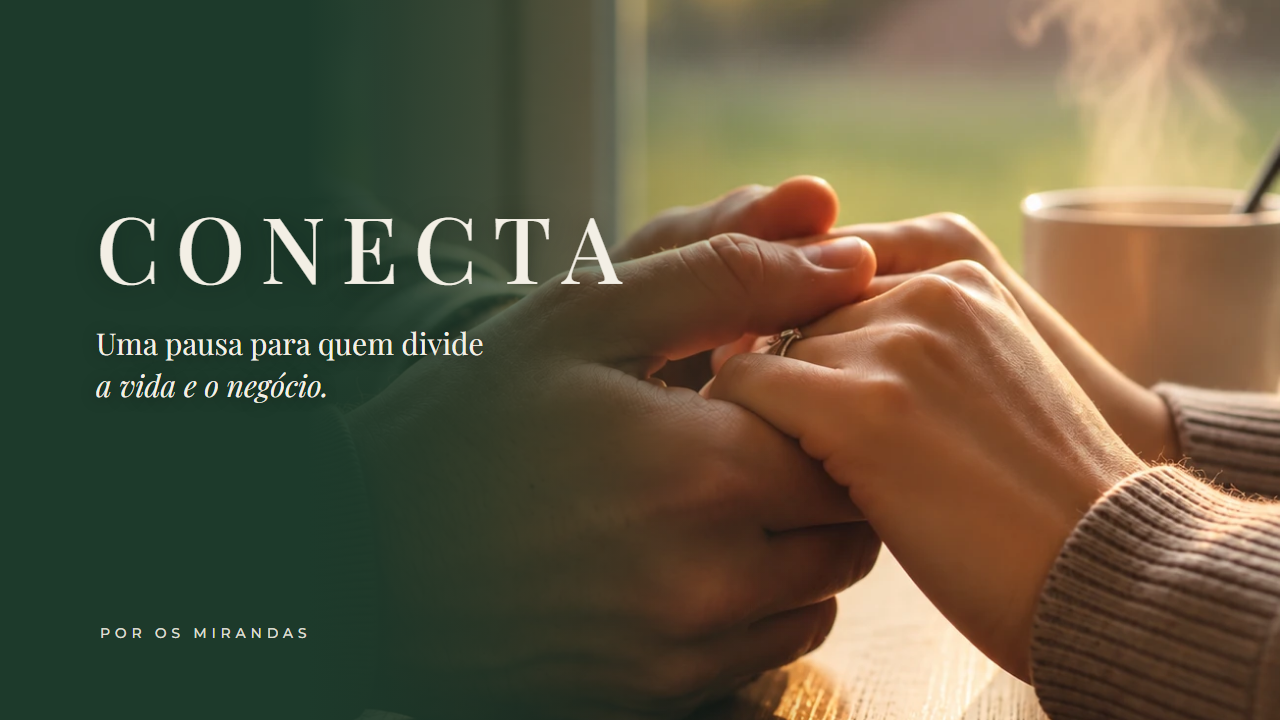
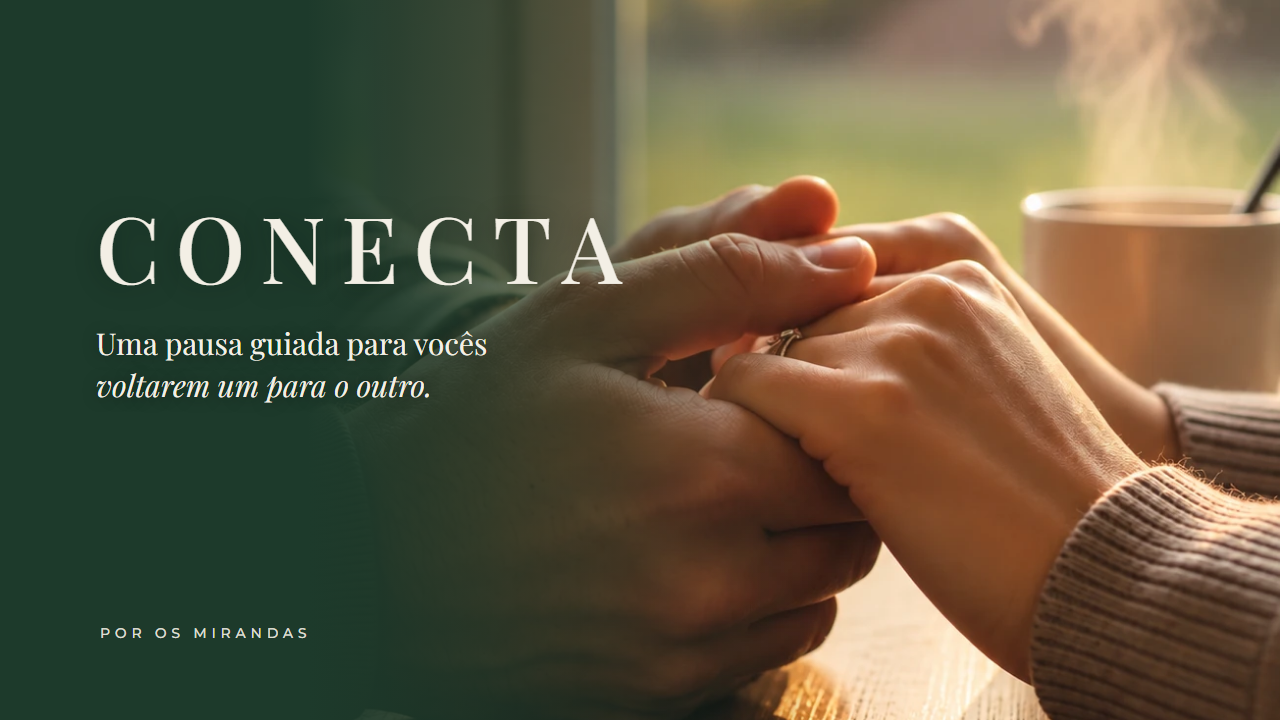
Novo posicionamento do CONECTA: pausa guiada para casais voltarem um para o outro
Página de vendas, página da bio e capas do produto deixam de falar só com
casais que empreendem juntos. Experiência 03 vira "O que ainda existe aqui",
acordo final com proteger, parar, voltar e o sinal de volta.

Changed region(s): [[0.0625, 0.4583, 0.375, 0.5806]]

diff --git a/conecta/venda/index.html b/conecta/venda/index.html
@@ -3,7 +3,7 @@
 <meta charset="utf-8">
 <meta name="viewport" content="width=device-width,initial-scale=1,viewport-fit=cover">
 <title>CONECTA · Os Mirandas</title>
-<meta name="description" content="CONECTA: uma experiência para casais que empreendem juntos saírem por algumas horas do modo sócios e voltarem a prestar atenção um no outro.">
+<meta name="description" content="CONECTA: uma pausa guiada para casais que se amam, mas perceberam que a vida começou a ocupar espaço demais entre os dois. Algumas horas para voltarem um para o outro.">
 <!-- Página de venda do CONECTA · v3 · estrutura inspirada na referência Black Boutique (Os Formagios), vestida com a identidade Os Mirandas -->
 <link rel="preconnect" href="https://fonts.googleapis.com">
 <link rel="preconnect" href="https://fonts.gstatic.com" crossorigin>
@@ -216,10 +216,10 @@ a:focus-visible,.btn:focus-visible{outline:2px solid var(--salvia);outline-offse
     <div class="hero" id="inicio">
       <div>
         <p class="rot">CONECTA · o livro-experiência</p>
-        <h1>Uma pausa para quem divide a vida e o <em>negócio.</em></h1>
-        <h2>Voltem a olhar para o “nós”.</h2>
-        <p class="sub">Uma experiência guiada para casais que empreendem juntos saírem por algumas horas do modo sócios e voltarem a prestar atenção um no outro.</p>
-        <p class="sub ritual">Peguem papel e caneta. Guardem os celulares. Sentem perto.</p>
+        <h1>Uma pausa guiada para vocês voltarem <em>um para o outro.</em></h1>
+        <h2>Amar também é saber voltar.</h2>
+        <p class="sub">Para casais que continuam se amando, mas perceberam que a vida começou a exigir tanto que sobrou pouco espaço para cuidar de vocês.</p>
+        <p class="sub ritual">Papel, duas canetas, algo para beber. Celulares longe.</p>
         <div class="compra">
           <a class="btn" href="https://pay.hotmart.com/S107878528P">Quero viver o CONECTA <span>↘</span></a>
           <p class="preco"><b>R$ 37</b><span>Acesso imediato</span></p>
@@ -232,9 +232,9 @@ a:focus-visible,.btn:focus-visible{outline:2px solid var(--salvia);outline-offse
       </figure>
     </div>
     <div class="rodape-hero">
-      <span>Lembrar → Perceber → Escolher</span>
+      <span>Lembrar → Perceber → Reconhecer → Ouvir → Escolher</span>
       <a href="#caminho">Conheça o caminho ↓</a>
-      <span>17 anos casados e sócios</span>
+      <span>17 anos de casamento</span>
     </div>
   </div>
 </header>
@@ -244,12 +244,12 @@ a:focus-visible,.btn:focus-visible{outline:2px solid var(--salvia);outline-offse
   <div class="rv">
     <p class="rot">O que vocês vão viver</p>
     <h2>Cinco experiências e <em>um acordo.</em></h2>
-    <p class="tese">Vocês podem estar construindo tanto juntos que, sem perceber, começaram a conversar mais sobre aquilo que construíram do que sobre quem está construindo.</p>
+    <p class="tese">Trabalho, filhos, casa, dinheiro, preocupações. Há fases em que tudo parece precisar de vocês ao mesmo tempo. O perigo é passar tanto tempo cuidando da vida que, sem perceber, vocês deixam de cuidar de quem está vivendo essa vida ao lado.</p>
   </div>
   <ul class="abas">
     <li><a href="#e1"><span><small>01</small>O Museu do Nós</span><span>↘</span></a></li>
     <li><a href="#e2"><span><small>02</small>Onde foi parar a gente?</span><span>↘</span></a></li>
-    <li><a href="#e3"><span><small>03</small>Sócio ou cônjuge?</span><span>↘</span></a></li>
+    <li><a href="#e3"><span><small>03</small>O que ainda existe aqui</span><span>↘</span></a></li>
     <li><a href="#e4"><span><small>04</small>O que eu queria…</span><span>↘</span></a></li>
     <li><a href="#e5"><span><small>05</small>A vida que construímos</span><span>↘</span></a></li>
   </ul>
@@ -258,7 +258,7 @@ a:focus-visible,.btn:focus-visible{outline:2px solid var(--salvia);outline-offse
     <figure class="foto" data-depth><img src="img/vinil.jpg" alt="Disco de vinil no toca-discos, perto de uma janela" loading="lazy"><b>Lembrar.</b></figure>
     <div class="rv">
       <p class="num">01 / O Museu do Nós</p>
-      <h3>Acima de tudo que vocês administram, existe <em>uma história.</em></h3>
+      <h3>Antes de tudo que existe hoje, existe <em>uma história.</em></h3>
       <p>A música que lembra o outro, o lugar que querem visitar de novo, a piada que só vocês entendem. Antes de qualquer tensão, memória e afeto.</p>
       <a class="seta" href="#oferta">Quero viver isso <span>↗</span></a>
     </div>
@@ -269,23 +269,23 @@ a:focus-visible,.btn:focus-visible{outline:2px solid var(--salvia);outline-offse
     <div class="rv">
       <p class="num">02 / Onde foi parar a gente?</p>
       <h3>Às vezes não existe crise. Existe uma vida que ficou <em>cheia demais.</em></h3>
-      <p>A última semana de verdade, sem procurar culpados. Em que momentos alguém perceberia que vocês são marido e mulher, e não só dois sócios administrando uma vida?</p>
+      <p>A última semana de verdade, sem procurar culpados. Em que momentos alguém perceberia que existe um casal ali, e não apenas duas pessoas cuidando da vida?</p>
       <a class="seta" href="#oferta">Quero viver isso <span>↗</span></a>
     </div>
   </div>
 
   <div class="linha-exp" id="e3">
-    <figure class="foto" data-depth><img src="img/escritorio.jpg" alt="Mesa de trabalho com notebook, caderno aberto e caneta" loading="lazy"><b>Diferenciar.</b></figure>
+    <figure class="foto" data-depth><img src="img/olhar.jpg" alt="Mãos de um homem e de uma mulher escrevendo em folhas sobre a mesa, com café ao lado" loading="lazy"><b>Reconhecer.</b></figure>
     <div class="rv">
-      <p class="num">03 / Sócio ou cônjuge?</p>
-      <h3>A mesma pessoa, <em>dois papéis.</em></h3>
-      <p>Admirar o parceiro de vida e o parceiro de negócio. Conversar sobre o dinheiro da casa e da empresa. Combinar quem decide o quê, sem precisar decidir tudo juntos.</p>
+      <p class="num">03 / O que ainda existe aqui</p>
+      <h3>A rotina acostuma os olhos. <em>Olhem de novo.</em></h3>
+      <p>O que vocês admiram um no outro hoje, na pessoa que o outro se tornou. O que cada um anda carregando nesta fase sem ser reconhecido. E o que vocês querem que o outro não esqueça.</p>
       <a class="seta" href="#oferta">Quero viver isso <span>↗</span></a>
     </div>
   </div>
 
   <div class="linha-exp inv" id="e4">
-    <figure class="foto" data-depth><img src="img/sala.jpg" alt="Duas canecas sobre a mesa de centro de uma sala iluminada" loading="lazy"><b>Falar e escutar.</b></figure>
+    <figure class="foto" data-depth><img src="img/sala.jpg" alt="Duas canecas sobre a mesa de centro de uma sala iluminada" loading="lazy"><b>Ouvir.</b></figure>
     <div class="rv">
       <p class="num">04 / O que eu queria que você soubesse</p>
       <h3>Algumas coisas só nunca encontraram <em>uma boa hora.</em></h3>
@@ -295,11 +295,11 @@ a:focus-visible,.btn:focus-visible{outline:2px solid var(--salvia);outline-offse
   </div>
 
   <div class="linha-exp" id="e5">
-    <figure class="foto" data-depth><img src="img/estrada.jpg" alt="Estrada vazia seguindo até o horizonte numa manhã enevoada" loading="lazy"><b>Sonhar.</b></figure>
+    <figure class="foto" data-depth><img src="img/estrada.jpg" alt="Estrada vazia seguindo até o horizonte numa manhã enevoada" loading="lazy"><b>Escolher.</b></figure>
     <div class="rv">
       <p class="num">05 / A vida que estamos construindo</p>
-      <h3>Crescer importa. Mas também importa saber <em>para que.</em></h3>
-      <p>O que significa prosperidade para vocês. O que a agenda revela ser o tesouro do casal. E, no fim, um acordo: o que vão proteger, parar e voltar a fazer.</p>
+      <h3>A vida de vocês não começa quando esta fase passar. <em>Ela já está acontecendo.</em></h3>
+      <p>Que casamento vocês querem continuar vivendo dentro da vida que estão construindo, e como atravessar esta fase sem desaparecer um para o outro. No fim, um acordo: proteger, parar, voltar. E o sinal de volta de vocês.</p>
       <a class="seta" href="#oferta">Quero viver isso <span>↗</span></a>
     </div>
   </div>
@@ -315,13 +315,14 @@ a:focus-visible,.btn:focus-visible{outline:2px solid var(--salvia);outline-offse
     <p class="num">O livro-experiência</p>
     <h2>CONECTA</h2>
     <h3>Uma experiência para dois.</h3>
-    <p class="apoio">Papel, caneta e algumas conversas que talvez a rotina esteja adiando.</p>
+    <p class="apoio">Papel, caneta e algumas conversas que a rotina costuma adiar.</p>
     <ul class="inclui">
       <li>Cinco experiências guiadas</li>
-      <li>Um acordo final do casal</li>
-      <li>Uma fronteira para proteger o casamento da empresa</li>
+      <li>Espaço para escrever em cada exercício</li>
+      <li>Um acordo: proteger, parar, voltar</li>
+      <li>O sinal de volta de vocês, para guardar</li>
       <li>Orientações para quando uma conversa esquentar</li>
-      <li>Uma carta de Leandro e Fernanda</li>
+      <li>Duas orações e uma carta de Leandro e Fernanda</li>
     </ul>
     <p class="formato">Vocês recebem o CONECTA em formato digital, com acesso imediato, para usar na tela ou imprimir.</p>
     <div class="compra">
@@ -341,11 +342,11 @@ a:focus-visible,.btn:focus-visible{outline:2px solid var(--salvia);outline-offse
   </div>
   <div class="folha" data-depth>
     <p class="num"><span>O combinado</span><span>CONECTA</span></p>
-    <blockquote>Hoje não estamos aqui para descobrir quem está certo. Estamos aqui para prestar atenção um no outro.</blockquote>
+    <blockquote>Não estamos aqui para vencer uma discussão. Primeiro, escutem.</blockquote>
     <ol>
       <li>Cada um escreve sozinho, sem mostrar.</li>
       <li>O CONECTA avisa a hora de revelar.</li>
-      <li>Se a conversa engatar, fiquem nela. Dá para parar e continuar outro dia.</li>
+      <li>Se uma pergunta virar uma conversa de quarenta minutos, fiquem nela. Dá para parar e continuar outro dia.</li>
     </ol>
   </div>
 </div></section>
@@ -358,8 +359,9 @@ a:focus-visible,.btn:focus-visible{outline:2px solid var(--salvia);outline-offse
   <dl>
     <div><dt>É um curso?</dt><dd>Não. O CONECTA não tem aulas, vídeos ou conteúdo para estudar. É uma experiência guiada que vocês recebem em formato digital e percorrem juntos, com papel e caneta.</dd></div>
     <div><dt>Quanto tempo leva?</dt><dd>Não existe tempo certo. Algumas perguntas levam poucos minutos, outras abrem conversas longas. Dá para fazer tudo de uma vez ou continuar outro dia.</dd></div>
-    <div><dt>Precisamos estar em crise?</dt><dd>Não. É para casais que construíram uma vida e um negócio juntos e não querem deixar a rotina fazer com que um deixe de perceber o outro.</dd></div>
-    <div><dt>O CONECTA é cristão?</dt><dd>Sim. Nasce da nossa fé em Cristo: começa com um convite à oração e traz dois textos bíblicos que aprofundam a conversa. Não é um devocional.</dd></div>
+    <div><dt>Precisamos estar em crise?</dt><dd>Não. Vocês não precisam esperar o casamento ficar ruim. É para casais que continuam se amando, mas sentem que trabalho, filhos, casa, dinheiro e preocupações começaram a ocupar espaço demais entre os dois.</dd></div>
+    <div><dt>É só para casais que trabalham juntos?</dt><dd>Não. Nós somos casados e sócios há 17 anos, mas o CONECTA é para qualquer casal que queira parar por algumas horas e voltar a prestar atenção um no outro.</dd></div>
+    <div><dt>O CONECTA é cristão?</dt><dd>Sim. Nasce da nossa fé em Cristo: começa e termina com oração e traz dois textos bíblicos que aprofundam a conversa. Não é um devocional.</dd></div>
     <div><dt>Substitui terapia?</dt><dd>Não. É uma experiência de reflexão e conversa. Se a relação envolve medo, violência, coerção ou risco, procurem apoio seguro e apropriado.</dd></div>
   </dl>
 </div></section>
@@ -367,8 +369,8 @@ a:focus-visible,.btn:focus-visible{outline:2px solid var(--salvia);outline-offse
 <section class="fecho">
   <img src="img/papeis.jpg" alt="Mesa de madeira com duas folhas em branco e duas canetas, uma de cada lado" loading="lazy">
   <div class="rv">
-    <p class="num">Sem pressa. Sem respostas certas. Sem cronômetro.</p>
-    <h2>Nenhum negócio que vocês construam juntos deveria custar <em>a conexão que existe entre vocês.</em></h2>
+    <p class="num">Sem pressa. Sem resposta certa. Sem nota.</p>
+    <h2>Não esperem a vida ficar tranquila para voltarem <em>um para o outro.</em></h2>
     <p>CONECTA · R$ 37 · acesso imediato</p>
     <a class="btn" href="https://pay.hotmart.com/S107878528P">Quero viver o CONECTA <span>↘</span></a>
   </div>
@@ -376,7 +378,7 @@ a:focus-visible,.btn:focus-visible{outline:2px solid var(--salvia);outline-offse
 </main>
 
 <footer class="rodape"><div class="w">
-  <span><a href="#inicio">Os Mirandas</a> · Vida · Casamento · Negócios</span>
+  <span><a href="#inicio">Os Mirandas</a> · Casamento &amp; Rotina</span>
   <span>Instagram <a href="https://instagram.com/osmiirandas">@osmiirandas</a></span>
 </div></footer>
 <div class="fixo"><a class="btn" href="https://pay.hotmart.com/S107878528P">Quero viver o CONECTA <span>↘</span></a></div>

diff --git a/conecta/hotmart/capa-maos.html b/conecta/hotmart/capa-maos.html
@@ -83,28 +83,28 @@
 <section class="q" id="a5" hidden>
   <img src="../../fotos/cenarios/maos-dadas-cafe.webp" alt="">
   <div class="veu"></div>
-  <div class="t"><div class="marca">CONECTA</div><p class="sub">Uma pausa para quem divide<br><i>a vida e o negócio.</i></p></div>
+  <div class="t"><div class="marca">CONECTA</div><p class="sub">Uma pausa guiada para vocês<br><i>voltarem um para o outro.</i></p></div>
   <div class="por">Por Os Mirandas</div>
 </section>
 
 <section class="q" id="quadrado" hidden>
   <img src="../../fotos/cenarios/maos-dadas-cafe.webp" alt="">
   <div class="veu"></div>
-  <div class="t"><div class="marca">CONECTA</div><p class="sub">Uma pausa para quem divide<br><i>a vida e o negócio.</i></p></div>
+  <div class="t"><div class="marca">CONECTA</div><p class="sub">Uma pausa guiada para vocês<br><i>voltarem um para o outro.</i></p></div>
   <div class="por">Por Os Mirandas</div>
 </section>
 
 <section class="q" id="vertical" hidden>
   <img src="../../fotos/cenarios/maos-dadas-cafe.webp" alt="">
   <div class="veu"></div>
-  <div class="t"><div class="marca">CONECTA</div><p class="sub">Uma pausa para quem divide<br><i>a vida e o negócio.</i></p></div>
+  <div class="t"><div class="marca">CONECTA</div><p class="sub">Uma pausa guiada para vocês<br><i>voltarem um para o outro.</i></p></div>
   <div class="por">Por Os Mirandas</div>
 </section>
 
 <section class="q deitado" id="horizontal" hidden>
   <img src="../../fotos/cenarios/maos-dadas-cafe.webp" alt="">
   <div class="veu"></div>
-  <div class="t"><div class="marca">CONECTA</div><p class="sub">Uma pausa para quem divide<br><i>a vida e o negócio.</i></p></div>
+  <div class="t"><div class="marca">CONECTA</div><p class="sub">Uma pausa guiada para vocês<br><i>voltarem um para o outro.</i></p></div>
   <div class="por">Por Os Mirandas</div>
 </section>
 
@@ -115,7 +115,7 @@
 <section class="q" id="banner2" hidden>
   <div class="bege"></div>
   <img src="../../fotos/cenarios/maos-dadas-cafe.webp" alt="">
-  <div class="t2"><div class="marca">CONECTA</div><p class="sub">Uma pausa para quem divide<br><i>a vida e o negócio.</i></p><div class="por2">Por Os Mirandas</div></div>
+  <div class="t2"><div class="marca">CONECTA</div><p class="sub">Uma pausa guiada para vocês<br><i>voltarem um para o outro.</i></p><div class="por2">Por Os Mirandas</div></div>
 </section>
 <section class="q" id="banner3" hidden>
   <div class="bege"></div>

diff --git a/index.html b/index.html
@@ -178,7 +178,7 @@
   const CONFIG = {
     nome: "Os Mirandas",
     instagram: "osmiirandas",                 // sem @
-    frase: "Construindo um negócio para caber na vida, e não a vida no negócio.",
+    frase: "Casamento intencional e uma vida com Cristo.",
     foto: "foto.webp",                        // arquivo na mesma pasta
 
     whatsapp: "5521966428636",                // só números, com DDI (55) e DDD
@@ -190,7 +190,7 @@
       link: "conecta/venda/",                  // página de vendas do CONECTA
       selo: "Novo",
       titulo: "CONECTA",
-      descricao: "Uma experiência para casais que empreendem juntos.",
+      descricao: "Uma pausa guiada para vocês voltarem um para o outro.",
       chamada: "Quero conhecer",
       capa: "conecta/venda/img/capa.jpg",
     },
